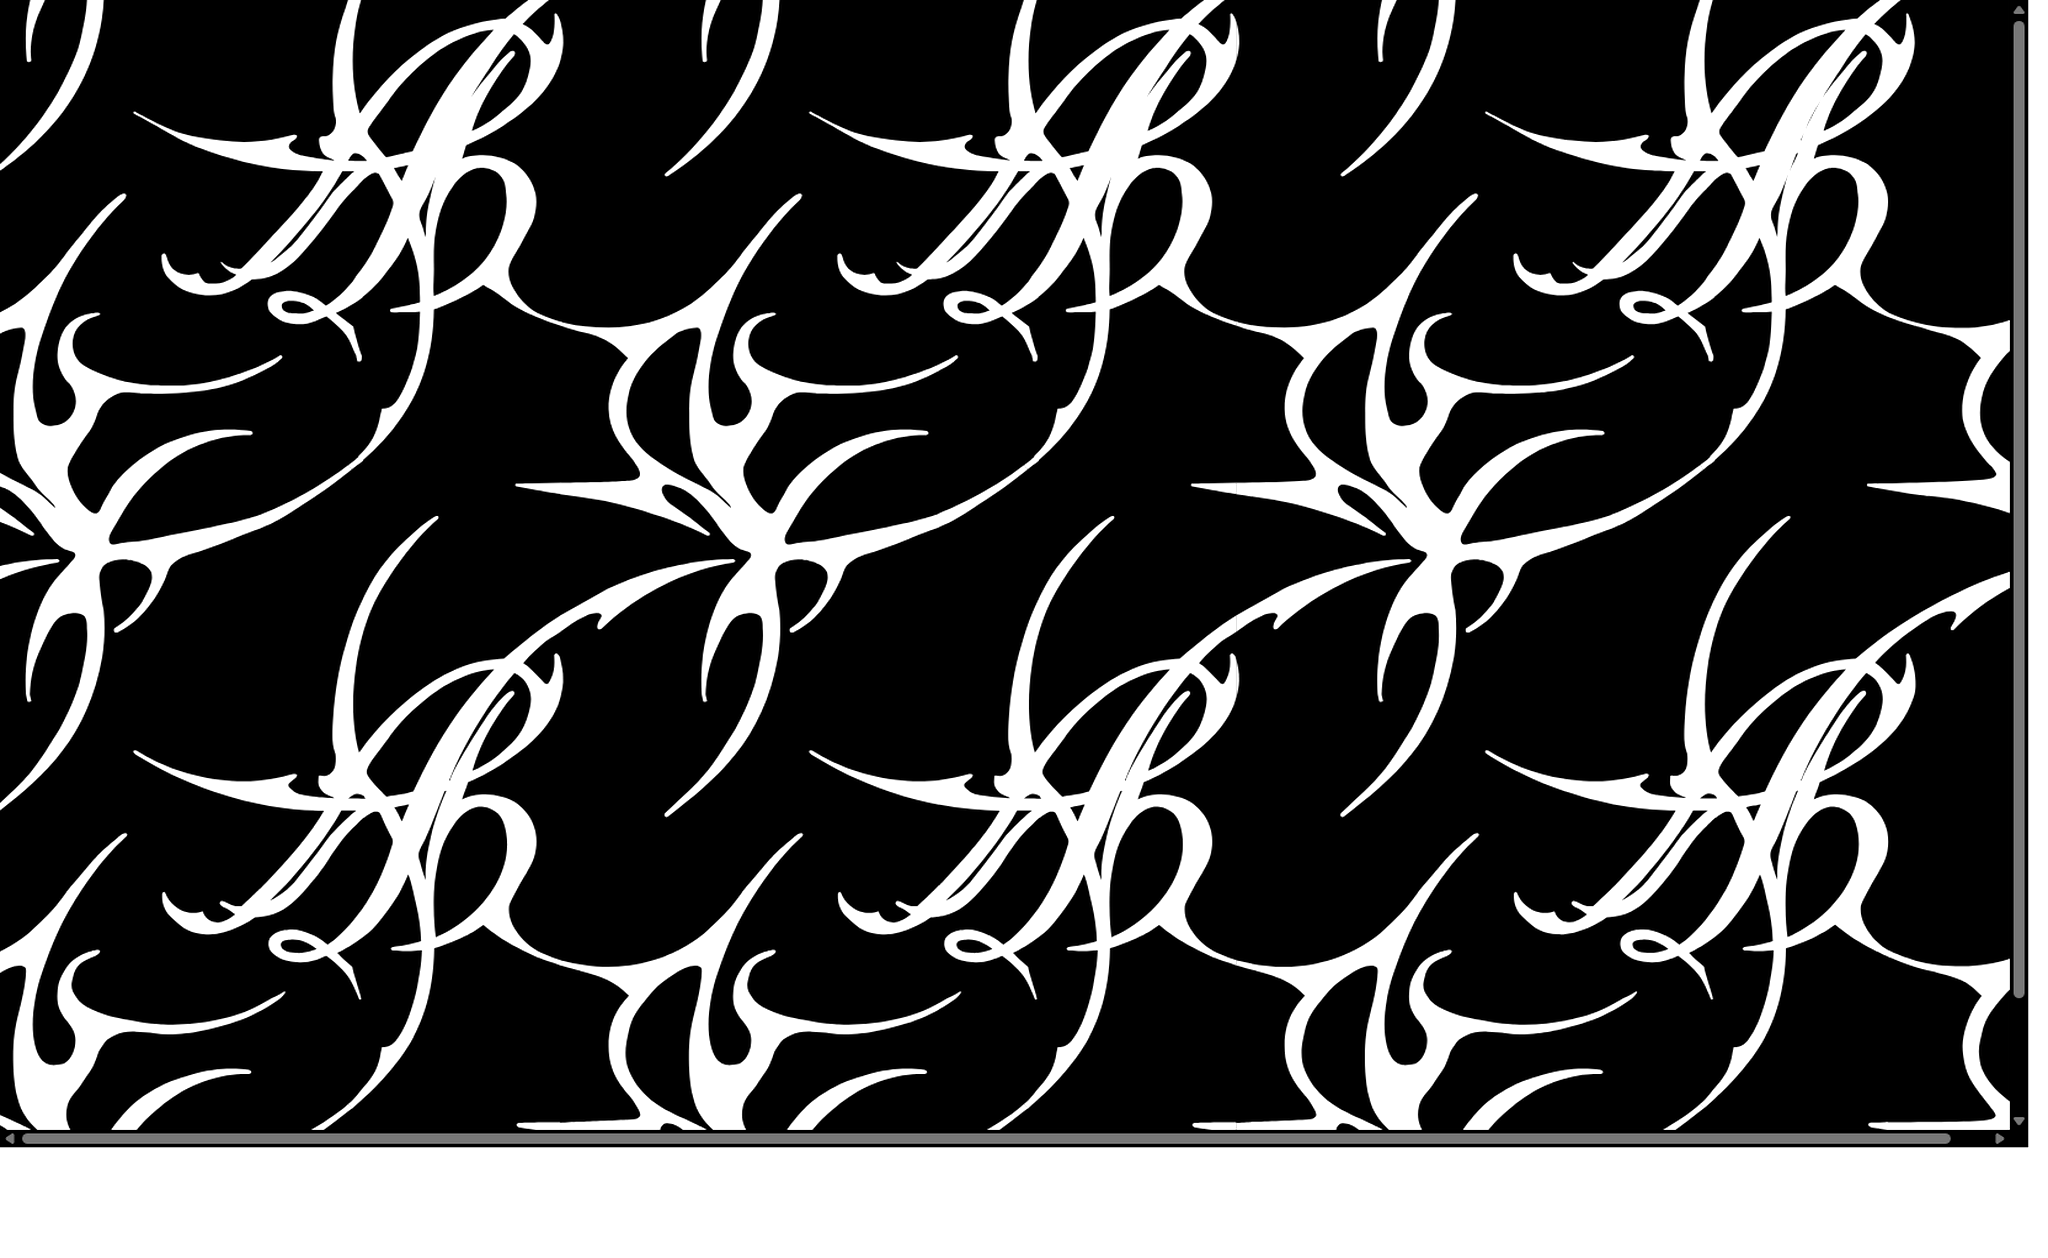
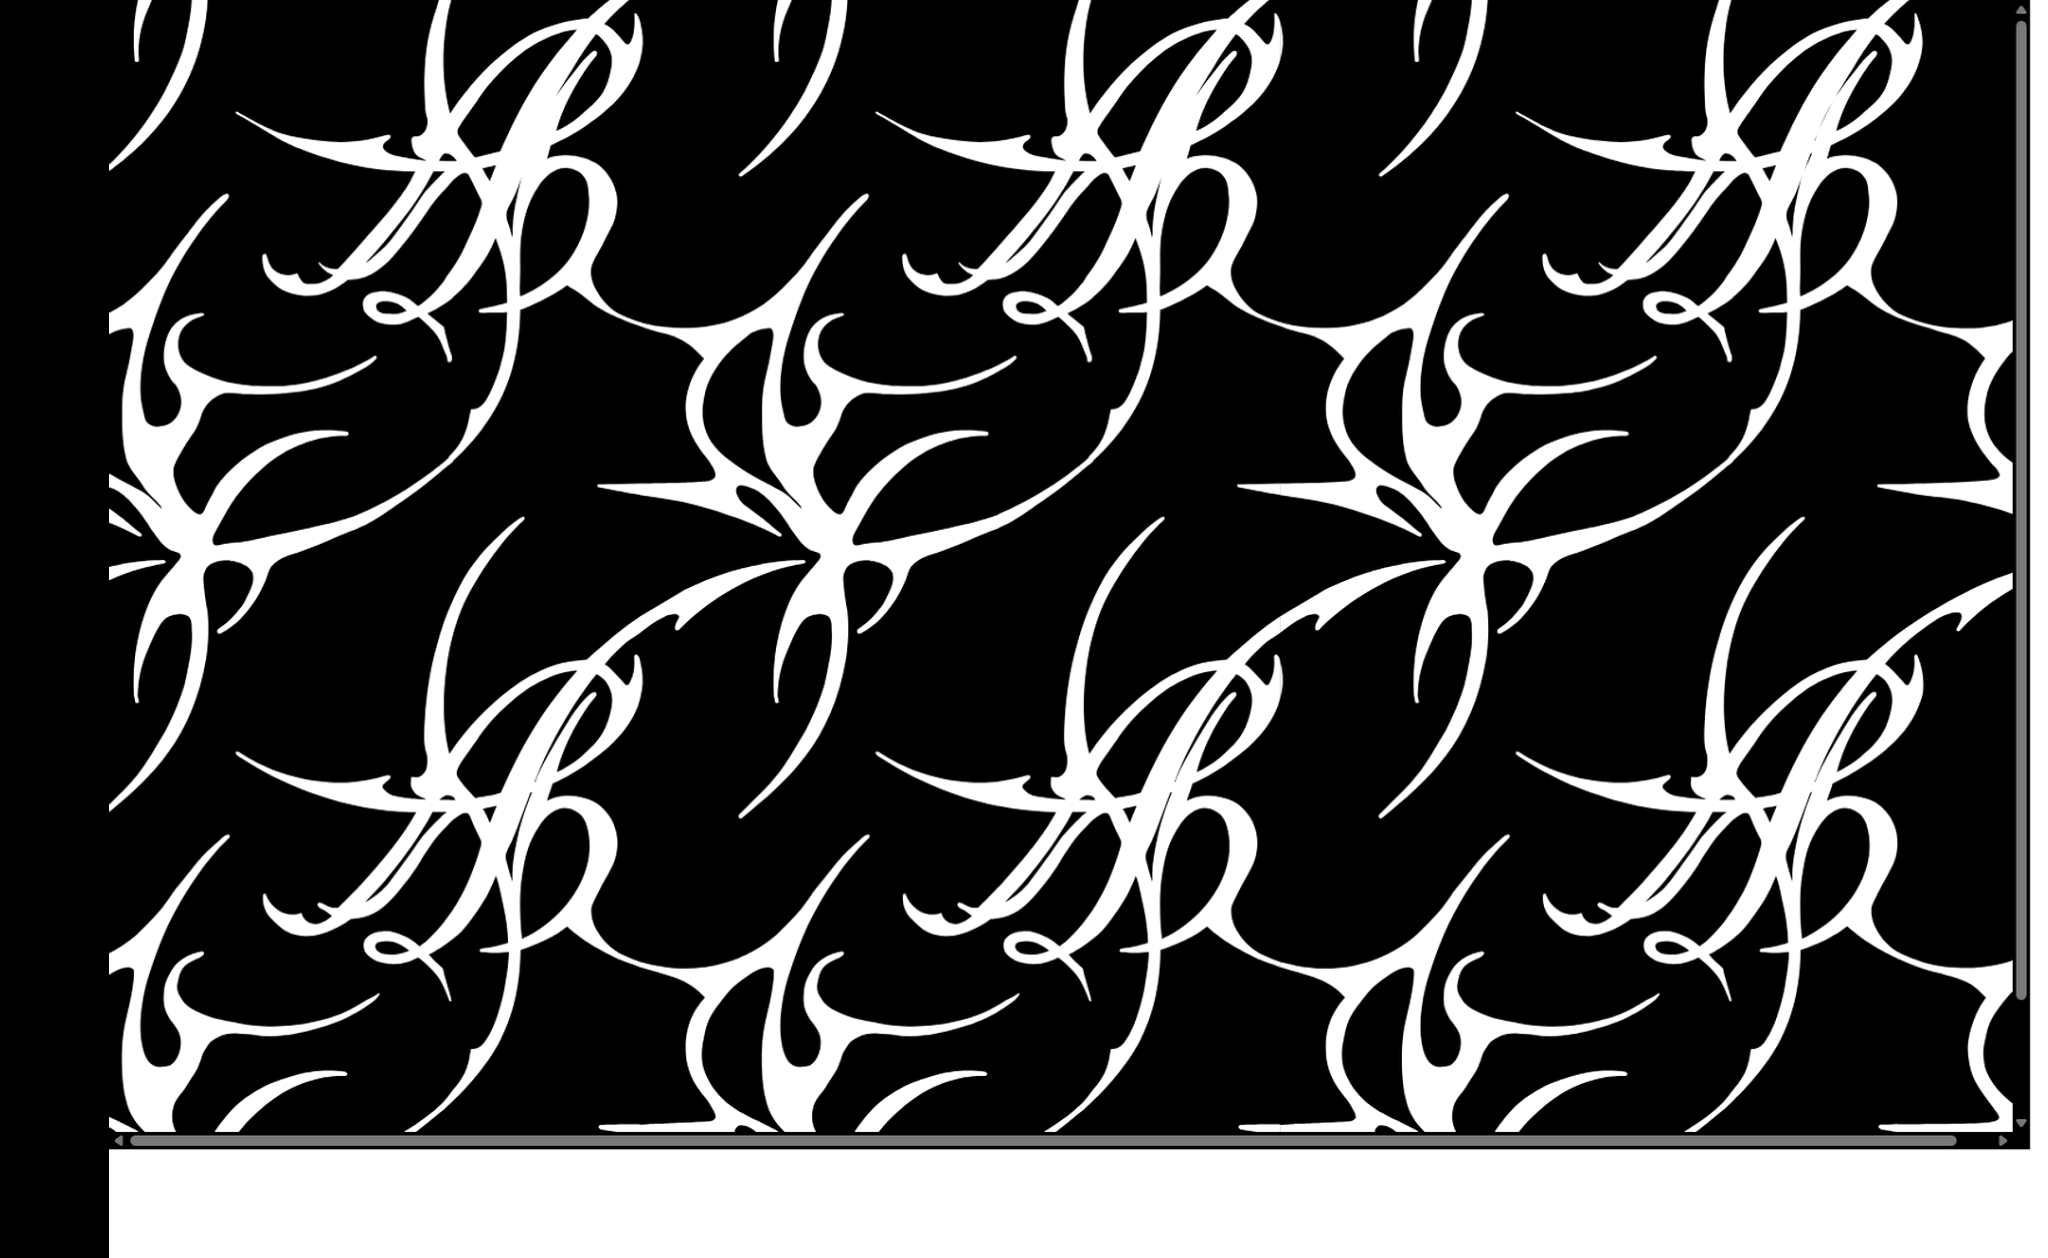
Fix vertical glitch line: bake pattern registration directly into the texture instead of a runtime wrap transform (the texture isn't tileable, so RepeatWrapping drew a hard seam)

Changed region(s): [[0.0, 0.0, 1.0, 1.0], [0.0, 0.589, 0.0312, 0.651], [0.7188, 0.651, 0.75, 0.682]]

diff --git a/wine/main.js b/wine/main.js
@@ -68,20 +68,25 @@ const WINE = {
 
 // Where the wine color is allowed to show is no longer guessed from the baked
 // normals (reliefWeight/raisedWeight) — it's read straight from the original
-// vector artwork (../../Pattern filled (4).svg), rasterized 1:1 onto the plate's
-// UV space (pattern-mask.png, white = inside the pattern). A naive stretch-fit
-// (repeat 1:1) drifted increasingly off toward the right edge of the plate — the
-// SVG canvas and the plate weren't quite the same aspect, so translation alone
-// couldn't fix it, only scale could. Registered properly by optimizing repeat+
-// offset against normal.png's actual slope/edge signal (the real geometry's
-// groove outline — normal.png has no alpha channel, so heightMask was always a
-// no-op; this is ground truth instead), maximizing normalized cross-correlation
-// between the pattern's fill boundary and that groove outline. Confirmed by eye:
-// the fill now hugs the groove edge uniformly across the whole width.
+// vector artwork (../../Pattern filled (4).svg), rasterized onto the plate's UV
+// space (pattern-mask.png, white = inside the pattern). Registered against
+// normal.png's actual slope/edge signal (the real geometry's groove outline —
+// normal.png has no alpha channel, so heightMask was always a no-op; this is
+// ground truth instead) by maximizing normalized cross-correlation between the
+// pattern's fill boundary and that groove outline — needed both a scale and an
+// offset correction, not just translation.
+// That correction is now baked directly INTO pattern-mask.png (a one-time affine
+// resample), not applied at sample time: doing it as a runtime repeat/offset
+// pushed sampled UV outside [0,1] near the plate's left edge, and this texture
+// isn't tileable (its own left/right edges don't match — solid black vs solid
+// white), so RepeatWrapping there drew a hard seam right across the plate. The
+// baked version reads at a plain 1:1 UV with a clean, stable background fill for
+// the sliver the source raster didn't cover, so no wrap mode has to do anything
+// clever, and ClampToEdge is safe again.
 const PATTERN_MASK = {
   enabled: true,
-  offset: [-0.0564, 0.0001],
-  repeat: [1.0560, 0.9981],
+  offset: [0, 0],
+  repeat: [1, 1],
   softness: 0.06,          // antialiasing width across the mask edge, in mask-value units
 };
 
@@ -578,14 +583,12 @@ const tPatternMask = texLoader.load('./pattern-mask.png', () => {
   if (PATTERN_MASK.enabled) uPatternMaskLoaded.value = 1;
 });
 tPatternMask.wrapT = THREE.RepeatWrapping;         // matches bake/normal: vertically periodic
-// unlike bake1/bake2/normalMap (a single non-repeating panel render, correctly
-// clamped), pattern-mask.png IS a repeating tile — and PATTERN_MASK.repeat/offset
-// (needed to register it against the real geometry) push sampled u slightly below
-// 0 near the plate's left edge. Clamping there smeared one repeated texture column
-// across that sliver, and because that column sits right at the mask's threshold,
-// it flickered between red and gray — the reported glitchy half-red/half-gray
-// border. RepeatWrapping samples real (tileable) content there instead.
-tPatternMask.wrapS = THREE.RepeatWrapping;
+// the registration offset/scale is now baked into the texture itself (see
+// PATTERN_MASK above), sampled at a plain 1:1 UV — so, like bake1/bake2/
+// normalMap, this is safe to clamp: it's the source raster's own edges we'd hit,
+// not an out-of-[0,1] runtime transform, and the uncovered sliver was filled
+// with a clean background value rather than mismatched wrapped content.
+tPatternMask.wrapS = THREE.ClampToEdgeWrapping;
 tPatternMask.colorSpace = THREE.NoColorSpace;      // raw mask value, not a color to decode
 
 // shared uniforms

diff --git a/main.js b/main.js
@@ -53,26 +53,29 @@ const METAL = {
 };
 
 // Red fill masked by the original pattern artwork (../Pattern filled (4).svg),
-// rasterized 1:1 onto plate UV as pattern-mask.png (white = inside the pattern).
+// rasterized onto plate UV as pattern-mask.png (white = inside the pattern).
 // Separate from CHROMA above (that one derives its shape from fresnel/fluid
 // edges) — this one is a direct, solid fill: wherever the relief is revealed by
-// the cursor AND the pattern covers that UV, it's colored. A naive stretch-fit
-// (repeat 1:1) drifted increasingly off toward the right edge of the plate — the
-// SVG canvas and the plate weren't quite the same aspect, so translation alone
-// couldn't fix it, only scale could. Registered properly by optimizing repeat+
-// offset against normal.png's actual slope/edge signal (the real geometry's
-// groove outline — normal.png has no alpha channel, so it's read straight off
-// the RGB slope, not a heightMask), maximizing normalized cross-correlation
-// between the pattern's fill boundary and that groove outline (same registration
-// as ver2 — ver1 and ver2 share plate dimensions).
+// the cursor AND the pattern covers that UV, it's colored. Registered against
+// normal.png's actual slope/edge signal (the real geometry's groove outline) by
+// maximizing normalized cross-correlation between the pattern's fill boundary
+// and that groove outline (same registration as ver2 — shared plate dimensions)
+// — needed both a scale and an offset correction, not just translation.
+// That correction is baked directly INTO pattern-mask.png (a one-time affine
+// resample), not applied at sample time: doing it as a runtime repeat/offset
+// pushed sampled UV outside [0,1] near the plate's left edge, and this texture
+// isn't tileable (its own left/right edges don't match — solid black vs solid
+// white), so wrapping there drew a hard seam right across the plate. The baked
+// version reads at a plain 1:1 UV with a clean background fill for the sliver
+// the source raster didn't cover.
 const PATTERN_RED = {
   enabled: true,
   blend: 1.0,             // 1 = solid fill within the pattern, on the revealed relief
   color: 0xff3300,
 };
 const PATTERN_MASK = {
-  offset: [-0.0564, 0.0001],
-  repeat: [1.0560, 0.9981],
+  offset: [0, 0],
+  repeat: [1, 1],
   softness: 0.06,         // antialiasing width across the mask edge, in mask-value units
 };
 
@@ -546,14 +549,12 @@ tFlatNormal.needsUpdate = true;   // flat "up" normal → metal layer is a no-op
 const uPatternMaskLoaded = { value: 0 };
 const tPatternMask = texLoader.load('./pattern-mask.png', () => { uPatternMaskLoaded.value = 1; });
 tPatternMask.wrapT = THREE.RepeatWrapping;         // matches bake/normal: vertically periodic
-// unlike bake1/bake2/normalMap (a single non-repeating panel render, correctly
-// clamped), pattern-mask.png IS a repeating tile — and PATTERN_MASK.repeat/offset
-// (needed to register it against the real geometry) push sampled u slightly below
-// 0 near the plate's left edge. Clamping there smeared one repeated texture column
-// across that sliver, and because that column sits right at the mask's threshold,
-// it flickered between red and gray — the reported glitchy half-red/half-gray
-// border. RepeatWrapping samples real (tileable) content there instead.
-tPatternMask.wrapS = THREE.RepeatWrapping;
+// the registration offset/scale is now baked into the texture itself (see
+// PATTERN_MASK above), sampled at a plain 1:1 UV — so, like bake1/bake2/
+// normalMap, this is safe to clamp: it's the source raster's own edges we'd hit,
+// not an out-of-[0,1] runtime transform, and the uncovered sliver was filled
+// with a clean background value rather than mismatched wrapped content.
+tPatternMask.wrapS = THREE.ClampToEdgeWrapping;
 tPatternMask.colorSpace = THREE.NoColorSpace;      // raw mask value, not a color to decode
 
 // shared uniforms

diff --git a/index.html b/index.html
@@ -32,6 +32,6 @@
 <body>
 <div id="loading">loading model…</div>
 <div id="hint">move the cursor over the wall — scroll to zoom</div>
-<script type="module" src="./main.js?v=20260721124001"></script>
+<script type="module" src="./main.js?v=20260721130552"></script>
 </body>
 </html>

diff --git a/wine/index.html b/wine/index.html
@@ -31,6 +31,6 @@
 <body>
 <div id="loading">loading model…</div>
 <div id="hint">move the cursor over the wall — scroll to zoom · ver2 wine</div>
-<script type="module" src="./main.js?v=20260721124002"></script>
+<script type="module" src="./main.js?v=20260721130552"></script>
 </body>
 </html>